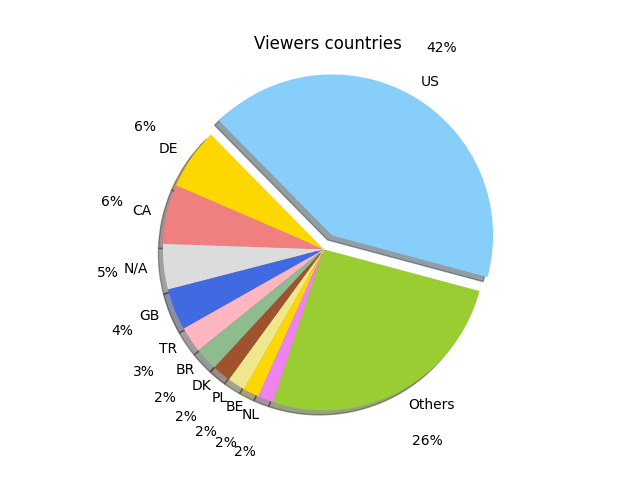
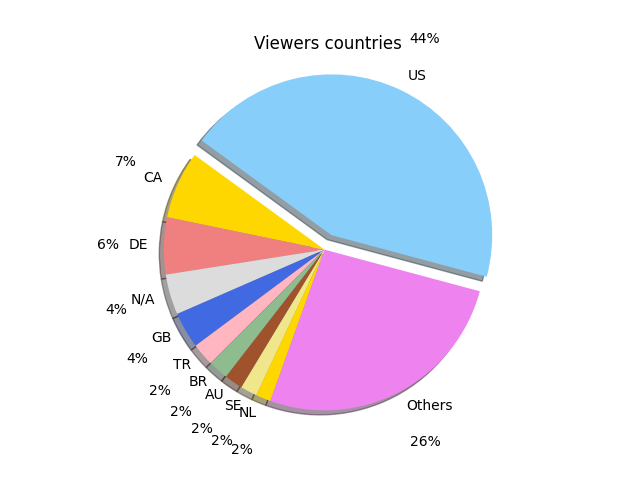
add final changes

diff --git a/visualisation.py b/visualisation.py
@@ -7,7 +7,7 @@ import pandas as pd
 
 games = ["LoL", "Dota 2", "CS:GO", "DayZ", "HOS", "Isaac", "Shows", "Hearth", "WoT", "Agar.io"]
 
-viewers =  [1070, 472, 302, 239, 210, 171, 170, 90, 86, 71]
+viewers =  [63693, 28270, 17845, 12544, 11632, 9756, 9192, 5176, 4750, 3847]
 
 plt.figure()
 ax = plt.subplot()
@@ -17,14 +17,15 @@ ax.set_xticklabels(games, rotation=30)
 plt.title('Games Viewers')
 plt.xlabel('Games')
 plt.ylabel('Views')
+plt.savefig('games_viewers.png')
 plt.show()
 plt.clf()
 
 # Pie Chart: League of Legends Viewers' Whereabouts
 
-labels = ["US", "DE", "CA", "N/A", "GB", "TR", "BR", "DK", "PL", "BE", "NL", "Others"]
+labels = ["US", "CA", "DE", "N/A", "GB", "TR", "BR", "AU", "SE", "NL", "Others"]
 
-countries = [447, 66, 64, 49, 45, 28, 25, 20, 19, 17, 17, 279]
+countries = [28109, 4323, 3642, 2589, 2318, 1449, 1297, 1180, 1062, 956, 16752]
 
 colors = ['lightskyblue', 'gold', 'lightcoral', 'gainsboro', 'royalblue',
           'lightpink', 'darkseagreen', 'sienna', 'khaki', 'gold', 'violet',
@@ -34,7 +35,7 @@ plt.figure()
 plt.pie(countries,
         labels=labels,
         colors=colors,
-        explode = (0.1, 0, 0, 0, 0, 0, 0, 0, 0, 0, 0, 0),
+        explode = (0.1, 0, 0, 0, 0, 0, 0, 0, 0, 0, 0),
         shadow=True,
         startangle=345,
         autopct='%1.0f%%',
@@ -42,6 +43,7 @@ plt.pie(countries,
 )
 plt.axis('equal')
 plt.title('Viewers countries')
+plt.savefig('countries_viewers.png')
 plt.show()
 plt.clf()
 
@@ -62,5 +64,6 @@ plt.legend(['2015-01-01'], loc=4)
 plt.title("Time Series")
 plt.xlabel("Hour")
 plt.ylabel("Viewers")
+plt.savefig('time_series.png')
 plt.show()
 plt.clf()

diff --git a/main.py b/main.py
@@ -20,8 +20,12 @@ with open('stream.csv','r') as data:
               i['subscriber']) for i in dr]
 
 cursor.executemany('''
-    INSERT INTO stream ('time', 'device_id', 'login', 'channel', 'country', 'player', 'game', 'stream_format', 'subscriber')
+    INSERT INTO stream ('time', 'device_id', 'login', 'channel', 'country', 'player', 'game', 'stream_format',
+     'subscriber')
     VALUES (?,?,?,?,?,?,?,?,?);''', to_db)
 
 db.commit()
 db.close()
+
+
+
